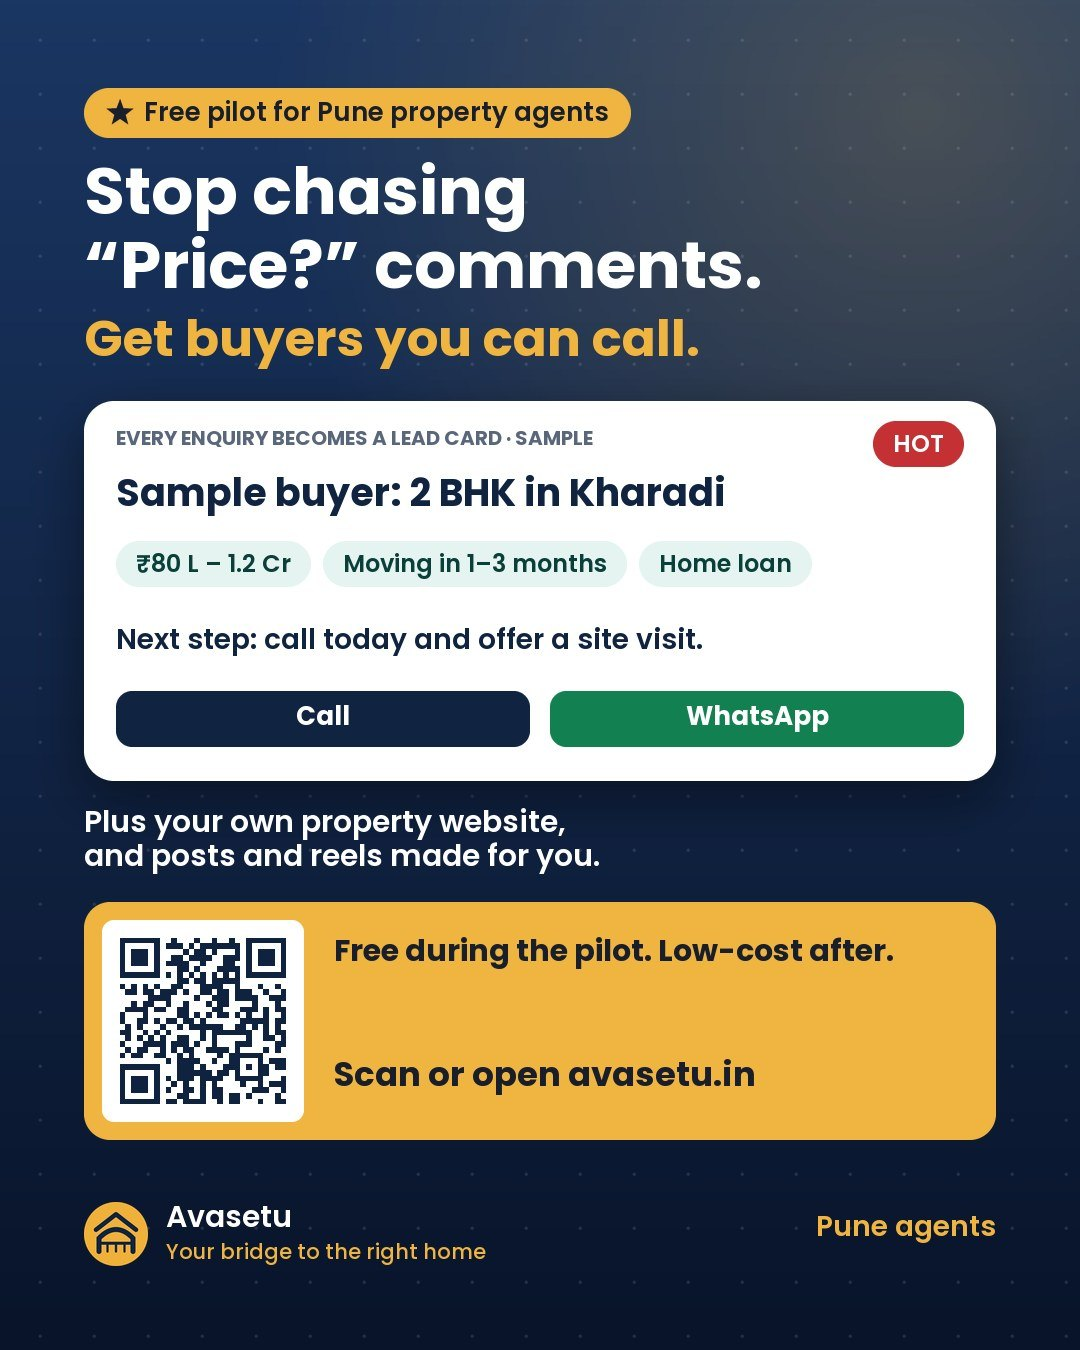
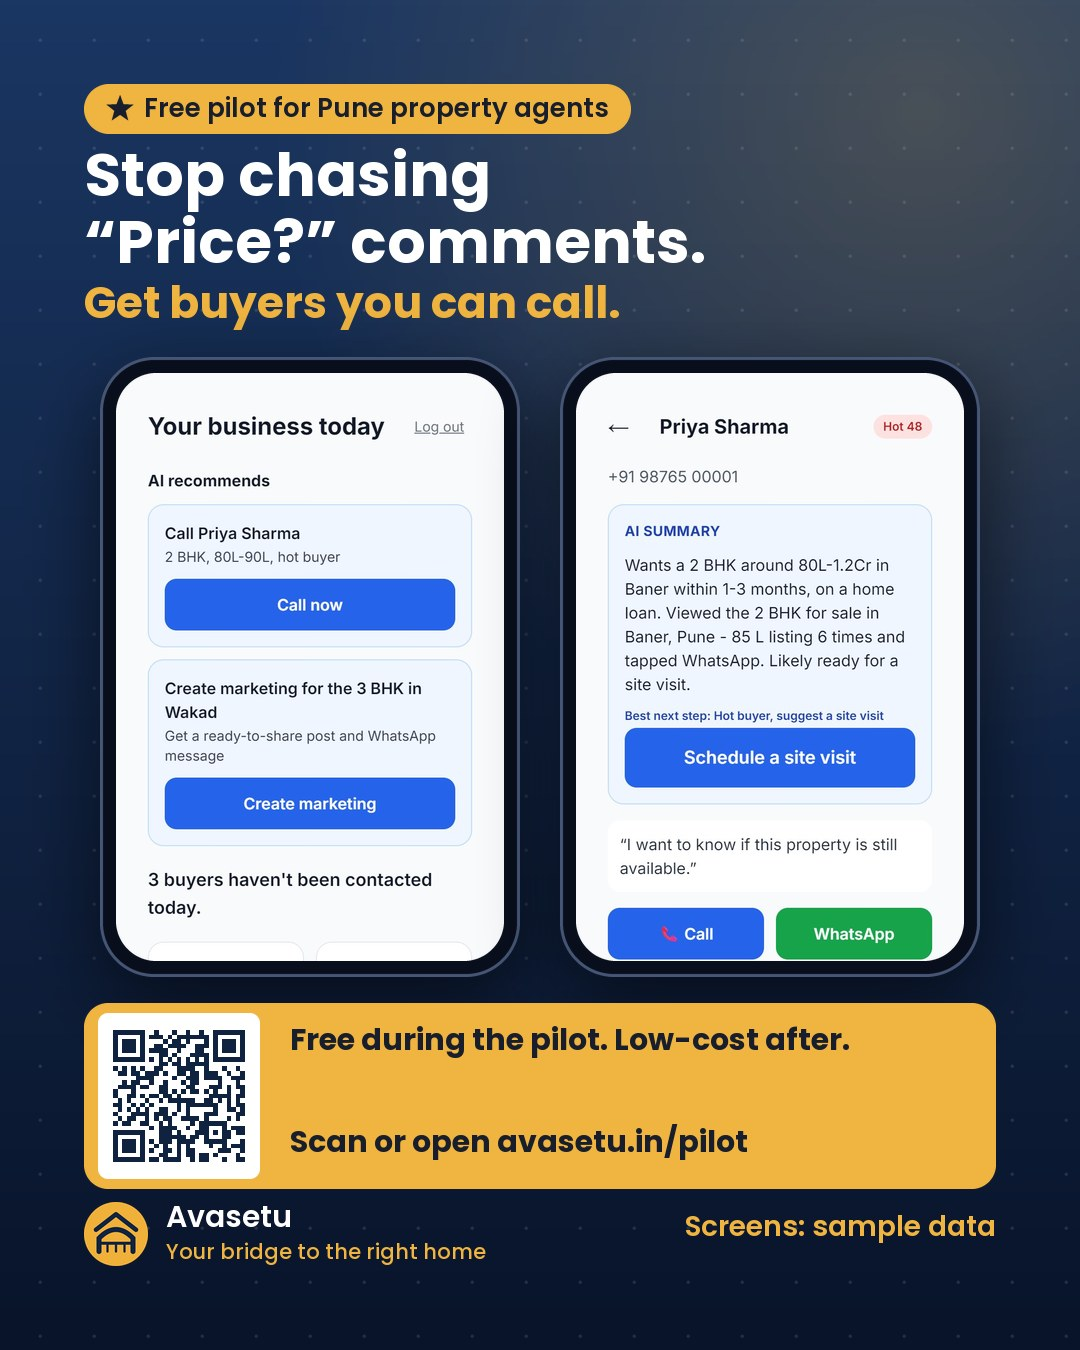
Agent promo v2: the real product screens (sample data) in a phone frame: who to call first, a buyer you understand, buyers who match, posts made for you, join; group image with two lead screens; /pilot shows it

diff --git a/backend/scripts/promo_agents_v2.py b/backend/scripts/promo_agents_v2.py
@@ -1,0 +1,119 @@
+"""Agent promo v2: the real product screens (sample data) in a phone frame, so agents SEE the leads, not just read about them.
+
+  cd backend && PYTHONPATH=. python scripts/promo_agents_v2.py [--out uploads/promo]
+
+Slides (4:5): your day (who to call first) · a buyer you understand · buyers who match · posts made for you · join (QR).
+Plus one group image (4:5) with the two lead screens side by side. Screens come from frontend/public/landing (sample data,
+labelled). Every slide passes the creative layout checks.
+"""
+import argparse
+import sys
+from pathlib import Path
+from typing import List
+
+BACKEND = Path(__file__).resolve().parents[1]
+if str(BACKEND) not in sys.path:
+    sys.path.insert(0, str(BACKEND))
+
+from PIL import Image, ImageOps  # noqa: E402
+
+from app.modules.agentprojects.cards import check, save_all  # noqa: E402
+from app.modules.creative.layouts.base import Canvas, Rendered  # noqa: E402
+from app.modules.creative.layouts.palette import get as palette  # noqa: E402
+from scripts.promo_agents import JOIN_URL, SITE, _qr, join  # noqa: E402
+
+SIZE = (1080, 1350)
+SHOTS = BACKEND.parent / "frontend" / "public" / "landing"
+DARK = (8, 14, 28)
+
+
+def _screen(name: str, w: int, h: int, top: float = 0.0) -> Image.Image:
+    """The screenshot scaled to width w, cropped to height h starting `top` (0..1) down the screen."""
+    with Image.open(SHOTS / name) as im:
+        im = im.convert("RGB")
+        im = im.resize((w, int(im.height * w / im.width)), Image.LANCZOS)
+    y = int((im.height - h) * top) if im.height > h else 0
+    return im.crop((0, y, w, y + h)) if im.height >= h else ImageOps.pad(im, (w, h), color=(255, 255, 255))
+
+
+def _phone(c: Canvas, name: str, x: int, y: int, w: int, h: int, top: float = 0.0) -> None:
+    bez = 16
+    c.shadow((x, y, x + w, y + h), 54, blur=36, dy=24, alpha=0.55)
+    c.rrect((x, y, x + w, y + h), 54, DARK, outline=(70, 86, 118), width=3, log=False)
+    c.rrect((x + bez, y + bez, x + w - bez, y + h - bez), 40, fill_img=_screen(name, w - 2 * bez, h - 2 * bez, top), log=False)
+    c.shapes.append((x, y, x + w, y + h))
+
+
+def _footer(c: Canvas, n: int, i: int) -> None:
+    c.brand_bar(right="Sample data")
+    if n > 1:
+        c.dots(n, i, c.W // 2, c.bottom - 104)
+
+
+def screen_slide(i: int, n: int, kicker: str, title: str, accent: str, shot: str, top: float = 0.0) -> Rendered:
+    c = Canvas(SIZE, palette("navy_gold"), f"promo2_{i}", i)
+    y = c.text(kicker.upper(), c.left, c.top + 6, c.right - c.left, 26, "bold", c.pal.accent, 1, role="kicker", balance=False) + 24
+    y = c.text(title, c.left, y, c.right - c.left, 58, "bold", c.pal.ink, 2, min_size=44, role="headline") + 8
+    y = c.text(accent, c.left, y, c.right - c.left, 40, "semibold", c.pal.accent, 2, min_size=30, role="support") + 30
+    w = 560
+    h = c.bottom - 140 - y
+    _phone(c, shot, (c.W - w) // 2, y, w, h, top)
+    _footer(c, n, i)
+    return c.finish()
+
+
+def carousel() -> List[Rendered]:
+    n = 5
+    slides = [
+        screen_slide(0, n, "For Pune property agents", "Every morning: who to call first.", "Your leads, sorted for you.",
+                     "30-home-actions.jpg"),
+        screen_slide(1, n, "Every enquiry", "A buyer you understand.", "Budget, area, timing. Hot or warm.", "19-lead-detail.jpg"),
+        screen_slide(2, n, "New property?", "See which buyers match.", "Send it on WhatsApp in one tap.", "27-buyers-match.jpg"),
+        screen_slide(3, n, "Your marketing", "Posts made for you.", "English, Hindi and Marathi. Your website too.",
+                     "22-marketing-ready.jpg"),
+        join(n),
+    ]
+    check(slides)
+    return slides
+
+
+def group_image(url: str = JOIN_URL) -> Rendered:
+    """One image for groups: the headline, two real lead screens side by side, and the join box with the QR."""
+    c = Canvas(SIZE, palette("navy_gold"), "promo2_group", 0)
+    c.chip("Free pilot for Pune property agents", c.left, c.top, icon="star", size=26)
+    y = c.text("Stop chasing “Price?” comments.", c.left, c.top + 70, c.right - c.left, 60, "bold", c.pal.ink, 2, min_size=44,
+               role="headline") + 6
+    y = c.text("Get buyers you can call.", c.left, y, c.right - c.left, 44, "bold", c.pal.accent, 1, min_size=34, role="headline",
+               balance=False) + 26
+    w, gap = 420, 40
+    h = 620
+    x0 = (c.W - 2 * w - gap) // 2
+    _phone(c, "30-home-actions.jpg", x0, y, w, h)
+    _phone(c, "19-lead-detail.jpg", x0 + w + gap, y, w, h)
+    y += h + 26
+    qr = 150
+    c.rrect((c.left, y, c.right, y + qr + 36), 24, c.pal.accent_fill)
+    c.rrect((c.left + 14, y + 10, c.left + 26 + qr, y + qr + 26), 10, (255, 255, 255))
+    c.img.paste(_qr(url, qr), (c.left + 20, y + 18))
+    tx = c.left + 56 + qr
+    c.text("Free during the pilot. Low-cost after.", tx, y + 26, c.right - 24 - tx, 30, "bold", c.pal.accent_ink, 2, min_size=22,
+           role="body", bg_hint=c.pal.accent_fill)
+    c.text("Scan or open " + SITE + "/pilot", tx, y + qr - 22, c.right - 24 - tx, 30, "bold", c.pal.accent_ink, 1, min_size=22,
+           role="body", balance=False, bg_hint=c.pal.accent_fill)
+    c.brand_bar(right="Screens: sample data")
+    r = c.finish()
+    check([r])
+    return r
+
+
+def main() -> None:
+    ap = argparse.ArgumentParser(description=__doc__.split("\n")[0])
+    ap.add_argument("--out", default="uploads/promo")
+    out = Path(ap.parse_args().out)
+    files = save_all(carousel(), out, "v2")
+    save_all([group_image()], out, "v2-group")
+    print("wrote", [f.name for f in files], "and v2-group-1.jpg to", out)
+
+
+if __name__ == "__main__":
+    main()
